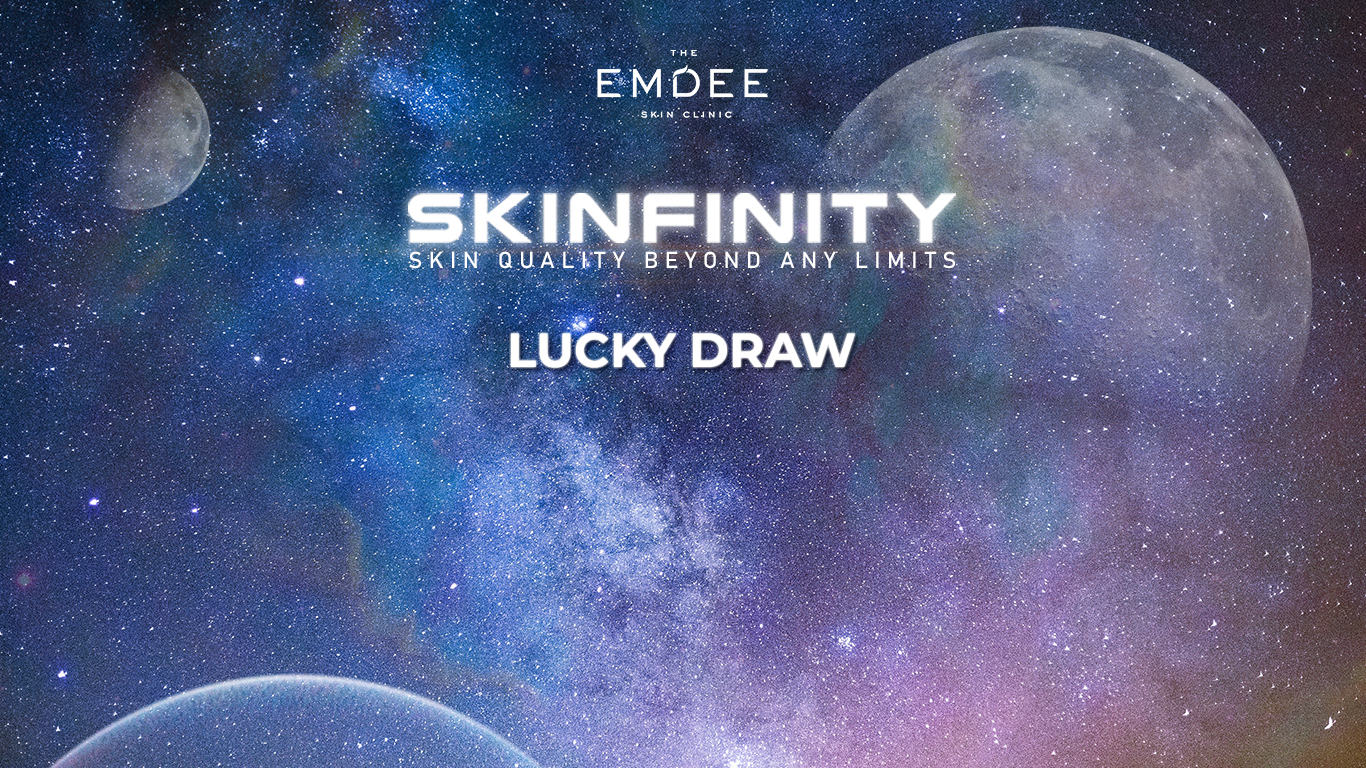
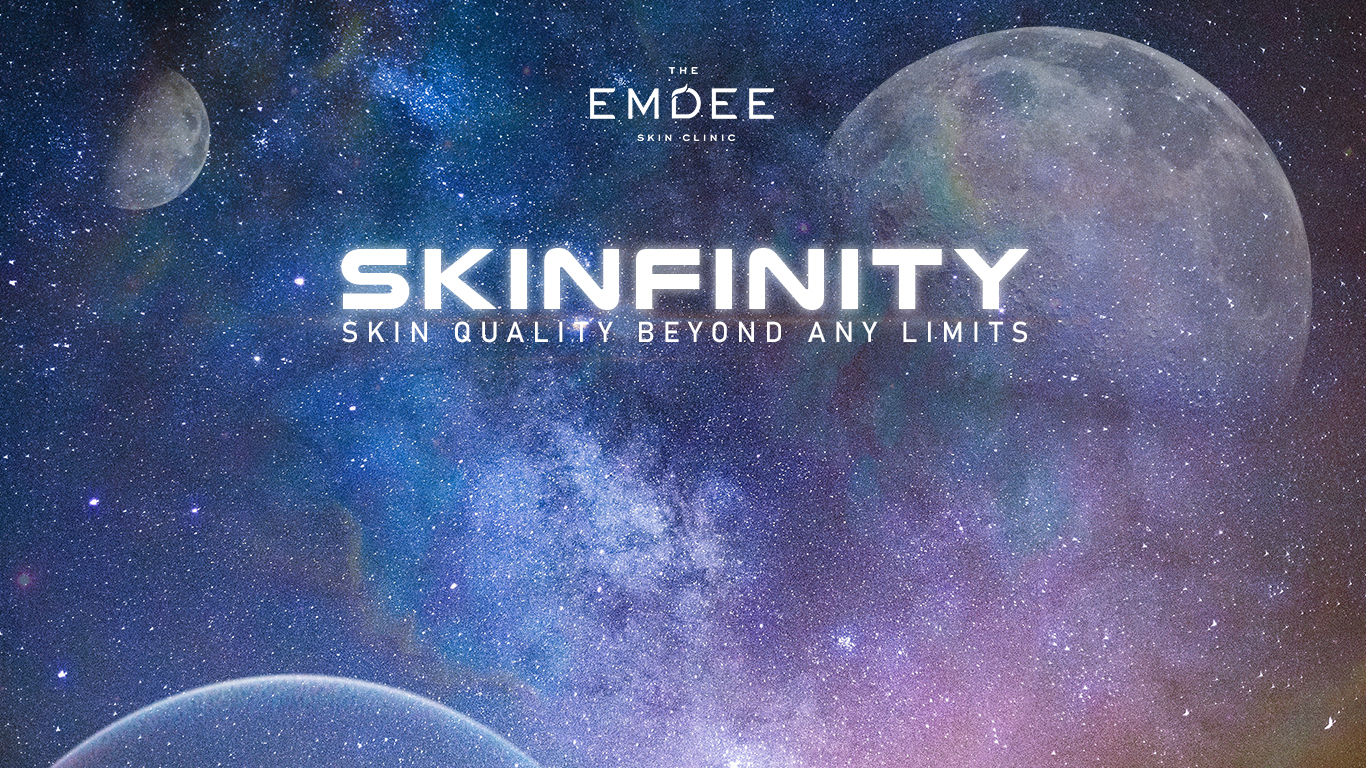
skinfinity 3

Changed region(s): [[0.2152, 0.2188, 0.7687, 0.5], [0.4305, 0.0625, 0.5842, 0.1875]]

diff --git a/application/views/V_Mysterybox.php b/application/views/V_Mysterybox.php
@@ -48,9 +48,9 @@
       outline: none!important;
     }
     h4 {
-     font-family: "Brittany Signature";
-     font-weight: 450;
-     font-size: 30px;
+     /*font-family: "Brittany Signature";*/
+     /*font-weight: 450;*/
+     /*font-size: 30px;*/
      line-height: 1.4em;
      color: white;
     }
@@ -75,7 +75,7 @@
           <a href="<?php echo base_url(); ?>/C_Mysterybox/listHadiahMG" target="_blank">&nbsp;&nbsp;&nbsp;&nbsp;&nbsp;&nbsp;</a>
         </div>
         <button class="btn btn-outline-info" onclick="swlinfo()">info</button>
-        <div class="content-wrapper" style="padding-top: 185px;">
+        <div class="content-wrapper" style="padding-top: 280px;">
           <div class="row">
 
             <?php 
@@ -155,70 +155,78 @@
                   if (prize.data.idhadiah!=16 && prize.data.jumlah > 0) {
                     Swal.fire({
                       // title: 'Selamat Emdeers, kamu dapat ...',
-                      text: prize.data.nama_hadiah,
+                      // text: prize.data.nama_hadiah,
                       imageUrl: '<?php echo base_url(); ?>/assets/images/hadiah/'+prize.data.gambar,
                       imageWidth: 250,
                       imageHeight: 250,
                       confirmButtonColor: '#3085d6',
                       confirmButtonText: 'Simpan'
-                    }).then((result) => {
-                      if (result.isConfirmed) {
-                        $("#mb"+randRow).attr('src','<?php echo base_url(); ?>/assets/images/hadiah/'+prize.data.gambar);
-                        $("#btn"+randRow).hide();
-                        $("#span"+randRow).append('<h4>'+prize.data.nama_hadiah+'</h4>');
-                      }
+                    }).then(function(){ 
+                        location.reload();
+                    // then((result) => {
+                    //   if (result.isConfirmed) {
+                    //     $("#mb"+randRow).attr('src','<?php echo base_url(); ?>/assets/images/hadiah/'+prize.data.gambar);
+                    //     $("#btn"+randRow).hide();
+                    //     // $("#span"+randRow).append('<h4>'+prize.data.nama_hadiah+'</h4>');
+                    //   }
                     });
                     minKuota(prize.data.idhadiah);
                     console.log(randRow);
                   } else if(prize.data.idhadiah==16 && prize.data.jumlah > 0) {
                     Swal.fire({
-                      title: 'Sayang sekali, ',
-                      text: prize.data.nama_hadiah,
+                      // title: 'Sayang sekali, ',
+                      // text: prize.data.nama_hadiah,
                       imageUrl: '<?php echo base_url(); ?>/assets/images/hadiah/'+prize.data.gambar,
                       imageWidth: 250,
                       imageHeight: 250,
                       confirmButtonColor: '#3085d6',
                       confirmButtonText: 'Keluar'
-                    }).then((result) => {
-                      if (result.isConfirmed) {
-                        $("#mb"+randRow).attr('src','<?php echo base_url(); ?>/assets/images/hadiah/'+prize.data.gambar);
-                        $("#btn"+randRow).hide();
-                        $("#span"+randRow).append('<h4>'+prize.data.nama_hadiah+'</h4>');
-                      }
+                    }).then(function(){ 
+                        location.reload();
+                    // then((result) => {
+                    //   if (result.isConfirmed) {
+                    //     $("#mb"+randRow).attr('src','<?php echo base_url(); ?>/assets/images/hadiah/'+prize.data.gambar);
+                    //     $("#btn"+randRow).hide();
+                    //     // $("#span"+randRow).append('<h4>'+prize.data.nama_hadiah+'</h4>');
+                    //   }
                     });
                     minKuota(prize.data.idhadiah);
                   } else {
                     Swal.fire({
-                      title: 'Sayang sekali, disini kosong ...',
+                      // title: 'Sayang sekali, disini kosong ...',
                       // text: prize.nama_hadiah,
-                      imageUrl: '<?php echo base_url(); ?>/assets/images/hadiah/mb.png',
+                      imageUrl: '<?php echo base_url(); ?>/assets/images/hadiah/sorry.png',
                       imageWidth: 250,
                       imageHeight: 250,
                       confirmButtonColor: '#3085d6',
                       confirmButtonText: 'Ok'
-                    }).then((result) => {
-                      if (result.isConfirmed) {
-                        $("#mb"+randRow).attr('src','<?php echo base_url(); ?>/assets/images/hadiah/mb.png');
-                        $("#btn"+randRow).hide();
-                        $("#span"+randRow).append('<h4>Belum beruntung</h4>');
-                      }
+                    }).then(function(){ 
+                        location.reload();
+                    // then((result) => {
+                    //   if (result.isConfirmed) {
+                    //     $("#mb"+randRow).attr('src','<?php echo base_url(); ?>/assets/images/hadiah/sorry.png');
+                    //     $("#btn"+randRow).hide();
+                    //     // $("#span"+randRow).append('<h4>Sorry ..</h4>');
+                    //   }
                     });
                   }
               }else{
                 Swal.fire({
-                      title: 'Sayang sekali, disini kosong ...',
+                      // title: 'Sayang sekali, disini kosong ...',
                       // text: prize.nama_hadiah,
-                      imageUrl: '<?php echo base_url(); ?>/assets/images/hadiah/mb.png',
+                      imageUrl: '<?php echo base_url(); ?>/assets/images/hadiah/sorry.png',
                       imageWidth: 250,
                       imageHeight: 250,
                       confirmButtonColor: '#3085d6',
                       confirmButtonText: 'Ok'
-                    }).then((result) => {
-                      if (result.isConfirmed) {
-                        $("#mb"+randRow).attr('src','<?php echo base_url(); ?>/assets/images/hadiah/mb.png');
-                        $("#btn"+randRow).hide();
-                        $("#span"+randRow).append('<h4>Belum beruntung</h4>');
-                      }
+                    }).then(function(){ 
+                        location.reload();
+                    // then((result) => {
+                    //   if (result.isConfirmed) {
+                    //     $("#mb"+randRow).attr('src','<?php echo base_url(); ?>/assets/images/hadiah/sorry.png');
+                    //     $("#btn"+randRow).hide();
+                    //     // $("#span"+randRow).append('<h4>Sorry ..</h4>');
+                    //   }
                     });
               }
               
